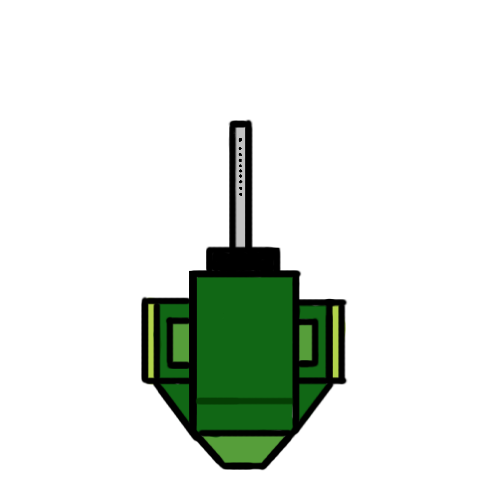
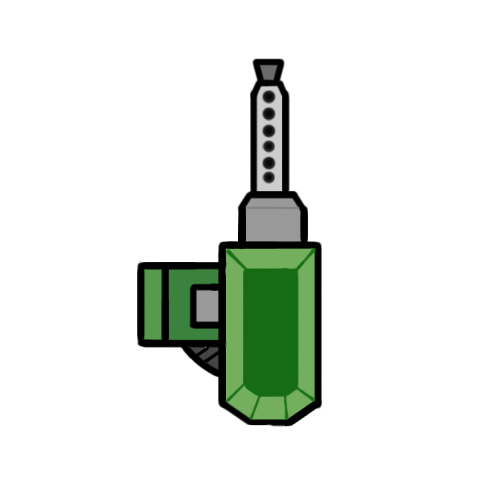
added animation for fast and slime , added a base for the tower, added different projectile for different towers.

Changed region(s): [[0.2812, 0.0938, 0.7188, 1.0]]

diff --git a/js/enemy.js b/js/enemy.js
@@ -8,6 +8,20 @@ export  class Enemy {
       this.health = ENEMY_TYPES[type].health;
       this.speed = ENEMY_TYPES[type].speed;
       this.reward = ENEMY_TYPES[type].reward;
+  
+      // New properties for animation
+      this.images = [];
+      this.currentImageIndex = 0;
+      this.animationSpeed = 10; // Adjust this value to change animation speed
+      this.animationCounter = 0;
+
+     // Load images based on enemy type
+     const imageCount = ENEMY_TYPES[type].imageCount || 5; // Default to 5 if not specified
+     for (let i = 1; i <= imageCount; i++) {
+       const img = new Image();
+       img.src = `statics/enemies/${type.toLowerCase()}_${i}.png`;
+       this.images.push(img);
+     }
     }
   
     update() {
@@ -29,6 +43,13 @@ export  class Enemy {
         this.y += (dy / distance) * this.speed;
       }
   
+      // Update animation
+      this.animationCounter++;
+      if (this.animationCounter >= this.animationSpeed) {
+        this.currentImageIndex = (this.currentImageIndex + 1) % this.images.length;
+        this.animationCounter = 0;
+      }
+
       if (this.health <= 0) {
         gameState.money += this.reward;
         return false;
@@ -38,14 +59,16 @@ export  class Enemy {
     }
   
     draw() {
-      ctx.fillStyle = ENEMY_TYPES[this.type].color;
-      ctx.fillRect(
+      // Draw the enemy image
+      const img = this.images[this.currentImageIndex];
+      ctx.drawImage(
+        img,
         this.x - GRID_SIZE * 0.4,
         this.y - GRID_SIZE * 0.4,
         GRID_SIZE * 0.8,
         GRID_SIZE * 0.8
       );
-  
+
       // Health bar
       ctx.fillStyle = "red";
       ctx.fillRect(

diff --git a/js/tower.js b/js/tower.js
@@ -8,6 +8,10 @@ import {
 } from "./constants.js";
 import { Projectile } from "./projectile.js";
 
+// Add this line to load the base image
+const baseImage = new Image();
+baseImage.src = './statics/towers/base.png';
+
 export class Tower {
   constructor(gridX, gridY, towerType) {
     this.gridX = gridX;
@@ -75,6 +79,9 @@ export class Tower {
     ctx.save();
     ctx.translate(this.x, this.y);
 
+    // Draw the base image (not rotated)
+    const baseSize = GRID_SIZE * 1.2; // Adjust this value as needed
+    ctx.drawImage(baseImage, -baseSize / 2, -baseSize / 2, baseSize, baseSize);
     // Calculate rotation angle if there's a target
     if (this.lastTarget) {
       const dx = this.lastTarget.x - this.x;
@@ -203,7 +210,7 @@ export const TOWER_TYPES = {
         cost: 60,
         damage: 55,
         range: 500,
-        fireRate: 0.6,
+        fireRate: 0.8,
         projectileSpeed: 5,
         image: "statics/towers/rocket_tower_2.png",
       },
@@ -211,7 +218,7 @@ export const TOWER_TYPES = {
         cost: 100,
         damage: 70,
         range: 600,
-        fireRate: 0.7,
+        fireRate: 1.0,
         projectileSpeed: 5,
         image: "statics/towers/rocket_tower_3.png",
       },

diff --git a/js/constants.js b/js/constants.js
@@ -113,22 +113,18 @@ export const gameState = {
 
 
 export const ENEMY_TYPES = {
-  NORMAL: {
+  SLIME: {
     health: 100,
     speed: 1,
     color: "red",
     reward: 15,
+    imageCount:5,
   },
   FAST: {
     health: 50,
     speed: 2,
     color: "green",
     reward: 20,
-  },
-  TANK: {
-    health: 300,
-    speed: 0.5,
-    color: "gray",
-    reward: 40,
-  },
+    imageCount:5,
+  }
 };
